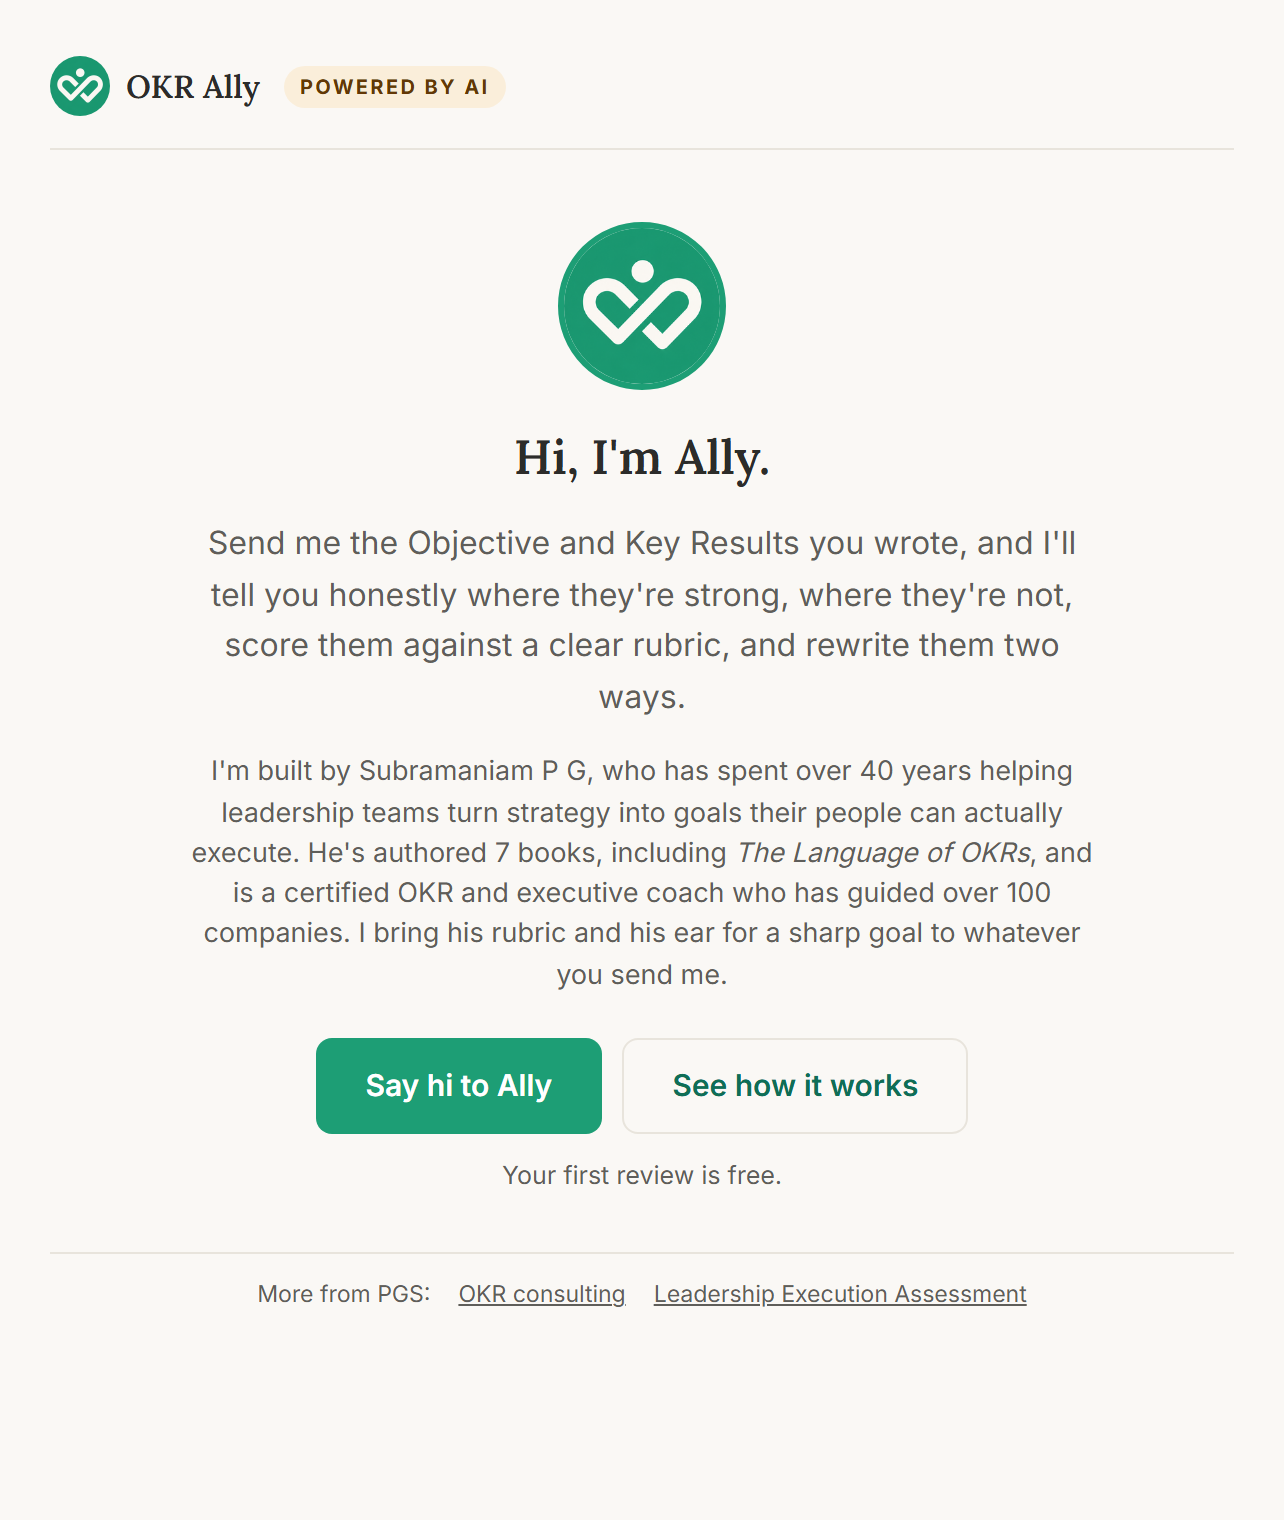
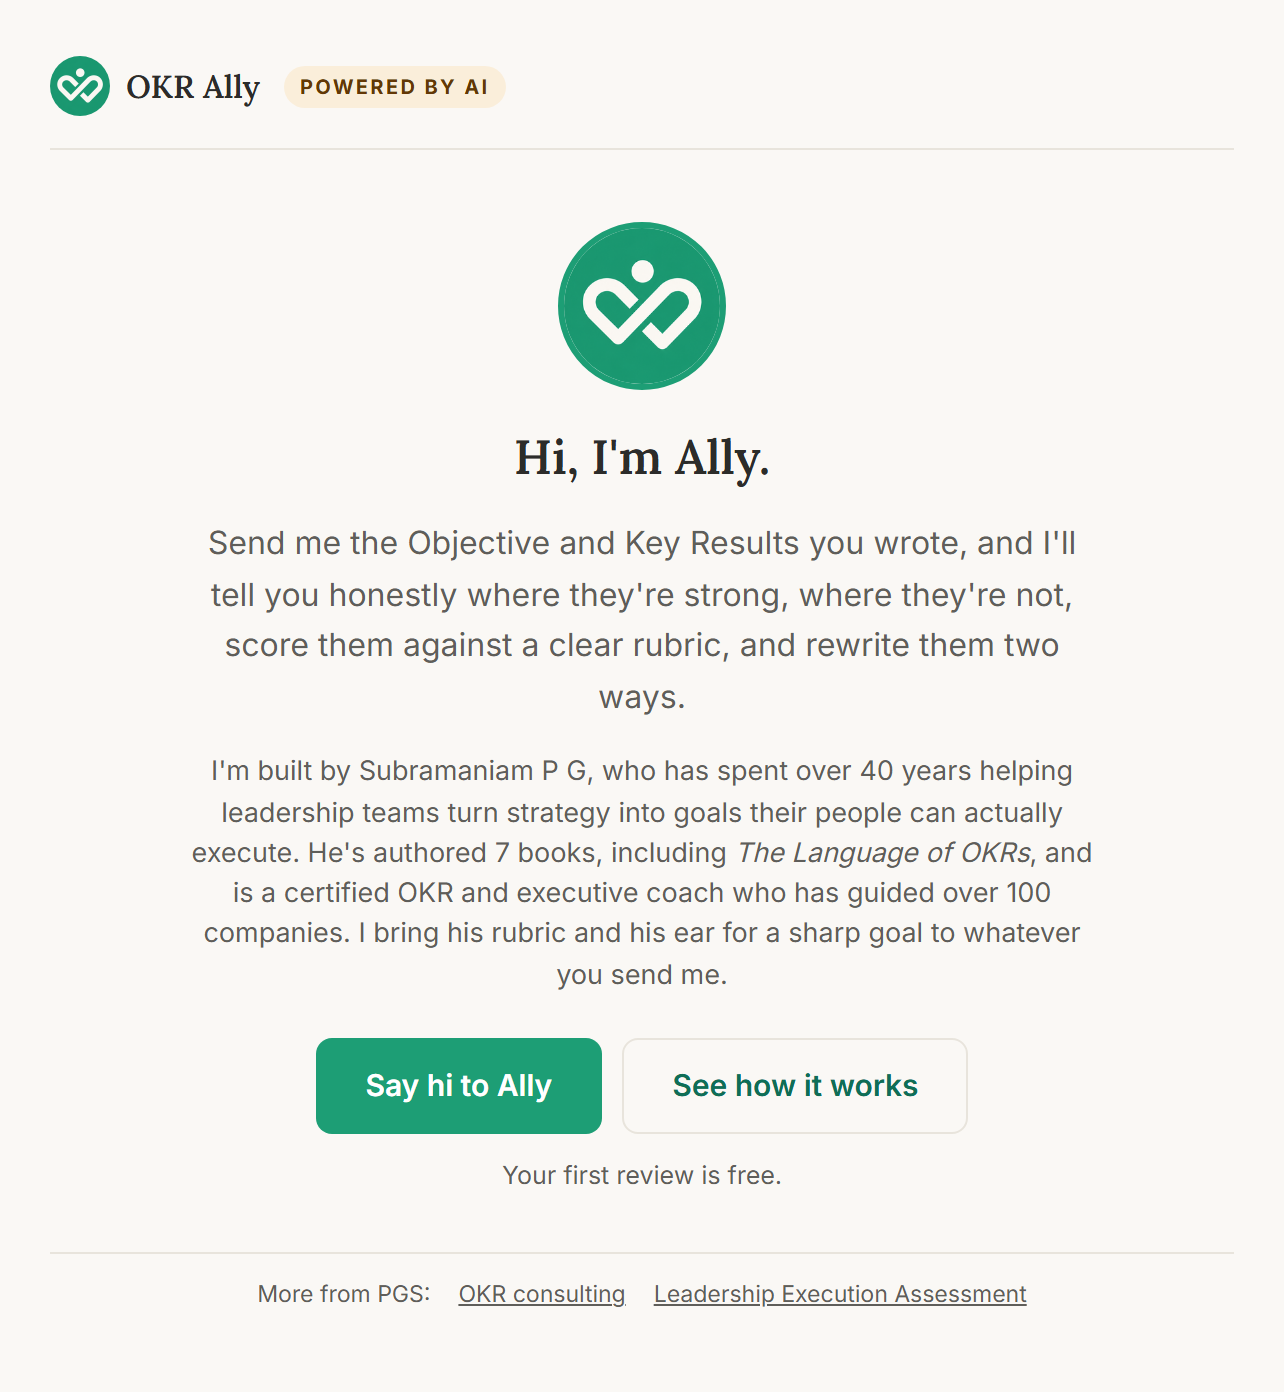
okr-ally: walkthrough follows the real conversation order; drop the comparisons
The "How it works" slideshow was 4 screenshots + 3 good-vs-bad comparison
slides + a CTA, in no particular order. Rebuild it as a straight walk of the
actual flow, screen by screen, captured against the live deployed product:

  intro → sign-in → company context → business context → role context
  (with a real clarifying follow-up) → Objective → Key Results → confirm → report

- Every slide is now a real screenshot. New captures: sign-in, all three
  context questions, Objective, Key Results, confirm. intro / report recaptured
  at the same viewport. Old 02-context / 03-clarify / 04-report removed.
- The three good-vs-bad comparison slides (weak/strong Objective, thin/full
  business answer, vague/specified KR) are removed entirely — `Compare` type,
  `CompareView`, `CompareCard` all gone. That teaching content may return later
  in Help or as contextual guidance on the report screen; it's just not in the
  walkthrough now.
- Objective / KR content is a single neutral worked example shown in the real
  input screens, not a paired contrast.
- Captions rewritten to match what each screenshot actually shows (e.g. the
  report caption no longer implies per-criterion rationale, which PR #9
  removed from the user-facing report).

e2e spec 15 updated: 10 slides, steps through all of them, asserts no
comparison headings remain and the report caption renders. Passes.
tsc / next lint / next build clean.

diff --git a/app/okr-ally/_walkthrough.tsx b/app/okr-ally/_walkthrough.tsx
@@ -6,12 +6,12 @@ import { T, Btn, AVATAR } from './_ui'
 
 /**
  * "How it works" — a slideshow the visitor can open from the intro screen,
- * before signing in. Real product screenshots (captured into
- * public/okr-ally/walkthrough/) walk the flow end to end; the last few slides
- * are before/after pairs that make the "write with more detail" point concrete.
+ * before signing in. Every slide is a real product screenshot (captured into
+ * public/okr-ally/walkthrough/ against the live deployed flow) and the slides
+ * follow the exact order a user experiences: intro → sign-in → the three
+ * context questions → Objective → Key Results → confirm → report.
  *
- * Entirely static — no API calls, no video, no external assets. Caption and
- * comparison copy is a first draft in Ally's voice, meant to be edited here.
+ * Entirely static — no API calls, no video, no external assets.
  */
 
 type Shot = {
@@ -22,90 +22,94 @@ type Shot = {
   alt: string
   caption: string
 }
-type Compare = {
-  kind: 'compare'
-  heading: string
-  /** optional context line shown above the two cards (e.g. the question being answered) */
-  inAnswerTo?: string
-  worse: { label: string; text: string }
-  better: { label: string; text: string }
-  caption: string
-}
 type Cta = { kind: 'cta'; heading: string; body: string }
-type Slide = Shot | Compare | Cta
+type Slide = Shot | Cta
 
 const SLIDES: Slide[] = [
   {
     kind: 'shot',
     img: '/okr-ally/walkthrough/01-intro.png',
     w: 1284,
-    h: 1520,
+    h: 1392,
     alt: 'The OKR Ally intro screen',
     caption:
       "This is the front door. Bring the Objective and Key Results you've already drafted — I don't write them from scratch. I score them against a fixed five-part rubric, tell you honestly what's working and what isn't, and hand back two rewrites. Your first review is free.",
   },
   {
     kind: 'shot',
-    img: '/okr-ally/walkthrough/02-context.png',
+    img: '/okr-ally/walkthrough/02-signin.png',
     w: 1284,
-    h: 958,
-    alt: 'Answering the company-context question, with a worked example typed in',
+    h: 604,
+    alt: 'The email sign-in step',
     caption:
-      'First I ask about your company, how the objective ladders up, and your own role. Detail is everything here — the more specific you are, the sharper my review. This is what a strong company answer looks like: what you do, who you serve, your size and stage, all in a few lines.',
+      "First, your email. I send a one-time sign-in link — no password to set or remember. It's how your reviews, credits and saved context stay tied to you between visits.",
   },
   {
     kind: 'shot',
-    img: '/okr-ally/walkthrough/03-clarify.png',
+    img: '/okr-ally/walkthrough/03-context-company.png',
     w: 1284,
-    h: 886,
-    alt: 'Ally asking a follow-up question when an answer is too thin',
+    h: 838,
+    alt: 'The first context question — about your company',
     caption:
-      "If an answer is too thin to work with, I ask one focused follow-up before we move on. You can always Skip — but answering it is usually what lifts a review from generic to genuinely useful.",
+      'Once you\'re in, a couple of quick basics — your name, your company — then three context questions. First: what your company does, who it serves, how big it is. The more detail here, the sharper the review, and I save it to your profile so you only write it once.',
   },
   {
     kind: 'shot',
-    img: '/okr-ally/walkthrough/04-report.png',
+    img: '/okr-ally/walkthrough/04-context-business.png',
     w: 1284,
-    h: 3280,
-    alt: 'The report screen: score ring, criteria radar, feedback, and two rewrites',
+    h: 842,
+    alt: 'The second context question — where the company is right now',
     caption:
-      "At the end you get an overall score, a breakdown across all five criteria, what works and what to tighten on the objective and every Key Result, and two full rewrites — one that repairs your draft, one built fresh from the outcome. It's on screen and in your inbox as a PDF.",
+      'Next, where the company is right now — its strategic direction, the challenges it\'s facing, the openings it sees, and the trends around it. Answer whichever of these matter to your objective. This is the context that lets me judge whether your OKR is aimed at what actually counts this quarter.',
   },
   {
-    kind: 'compare',
-    heading: 'A weak Objective vs a strong one',
-    worse: { label: 'Weaker', text: 'Improve the customer onboarding experience.' },
-    better: {
-      label: 'Stronger',
-      text: 'New customers reach first value on their own, without needing to contact support.',
-    },
+    kind: 'shot',
+    img: '/okr-ally/walkthrough/05-role-followup.png',
+    w: 1284,
+    h: 720,
+    alt: 'The third context question, with Ally asking a follow-up',
     caption:
-      'An Objective names the outcome you want — the state of the world once you’ve succeeded — not an activity or a direction of travel. "Improve" is a direction. The stronger version says what is actually different when the quarter goes well.',
+      "The last context question is your own role — what you're accountable for, and what you can and can't directly move. If any answer is too thin to work with, I ask one focused follow-up before we continue. You can always Skip, but answering is usually what lifts a review from generic to genuinely useful.",
   },
   {
-    kind: 'compare',
-    heading: 'A thin company answer vs a full one',
-    inAnswerTo:
-      '“Tell me about your company right now” — strategic direction, the current challenges in business and operations, the opportunities you see, and the trends affecting you.',
-    worse: { label: 'Thin', text: "We're a mid-size SaaS company and we're growing." },
-    better: {
-      label: 'Full',
-      text: "We're moving upmarket from SMB to mid-market this year. The blocker is that onboarding takes 12 weeks and first-year churn is 22%. A competitor just left the mid-market, so there's an opening — and new EU compliance rules are driving demand for our audit module.",
-    },
+    kind: 'shot',
+    img: '/okr-ally/walkthrough/06-objective.png',
+    w: 1284,
+    h: 574,
+    alt: 'Entering the Objective',
     caption:
-      'A full answer covers where the company is heading, what’s slowing it down, and what’s shifting around it. That context is what lets me judge whether your objective and Key Results are aimed at what actually matters right now.',
+      'Now the Objective — one sentence naming the outcome you want by the end of the cycle, not an activity or a direction of travel. Send me the one you already drafted.',
   },
   {
-    kind: 'compare',
-    heading: 'A vague Key Result vs a specified one',
-    worse: { label: 'Vague', text: 'Significantly increase customer satisfaction.' },
-    better: { label: 'Specified', text: 'Raise onboarding NPS from 32 to 45 by 31 March.' },
+    kind: 'shot',
+    img: '/okr-ally/walkthrough/07-key-results.png',
+    w: 1284,
+    h: 836,
+    alt: 'Entering the Key Results',
     caption:
-      'A Key Result needs a metric, a starting point, a target and a date. Without the baseline I can’t tell whether your target is ambitious or trivial — and nor can your team in week six.',
+      'Then one to six Key Results, each a measurable result in baseline-and-target form: a metric, where it starts, where you want it, and by when. You can add a few initiatives under any Key Result.',
+  },
+  {
+    kind: 'shot',
+    img: '/okr-ally/walkthrough/08-confirm.png',
+    w: 1284,
+    h: 2118,
+    alt: 'The confirm screen before submitting',
+    caption:
+      "One last look at everything I'm about to review — every line is still editable here. Then submit: one review, one credit, and it runs. A failed generation refunds automatically.",
+  },
+  {
+    kind: 'shot',
+    img: '/okr-ally/walkthrough/09-report.png',
+    w: 1284,
+    h: 5366,
+    alt: 'The report: score, criteria breakdown, feedback, and two rewrites',
+    caption:
+      "At the end you get an overall score, how it breaks down across the five criteria, what works and what to tighten on the Objective and every Key Result, and two full rewrites — one that repairs your draft, one built fresh from the outcome. It's on screen and in your inbox as a PDF.",
   },
   {
     kind: 'cta',
-    heading: "That's the whole loop.",
+    heading: "That's the whole conversation.",
     body: "Bring an Objective and its Key Results, plus a few minutes for the context questions. I'll take it from there.",
   },
 ]
@@ -158,7 +162,6 @@ export default function Walkthrough({ onBack, onStart }: { onBack: () => void; o
 
       <div style={{ minHeight: 420 }}>
         {slide.kind === 'shot' && <ShotView key={idx} slide={slide} />}
-        {slide.kind === 'compare' && <CompareView key={idx} slide={slide} />}
         {slide.kind === 'cta' && <CtaView key={idx} slide={slide} onStart={onStart} />}
       </div>
 
@@ -203,55 +206,6 @@ function ShotView({ slide }: { slide: Shot }) {
         />
       </Frame>
       <CaptionBubble>{slide.caption}</CaptionBubble>
-    </div>
-  )
-}
-
-function CompareView({ slide }: { slide: Compare }) {
-  return (
-    <div style={{ animation: 'okraIn .3s ease both' }}>
-      <h2 style={{ fontFamily: 'var(--font-lora), serif', fontSize: 17, fontWeight: 600, color: T.charcoal, margin: '0 0 6px' }}>
-        {slide.heading}
-      </h2>
-      {slide.inAnswerTo && (
-        <p style={{ fontSize: 12.5, color: T.muted, fontStyle: 'italic', margin: '0 0 12px', lineHeight: 1.5 }}>
-          In answer to: {slide.inAnswerTo}
-        </p>
-      )}
-      <div className="flex" style={{ gap: 12, flexWrap: 'wrap', marginTop: slide.inAnswerTo ? 0 : 6 }}>
-        <CompareCard tone="worse" label={slide.worse.label} text={slide.worse.text} />
-        <CompareCard tone="better" label={slide.better.label} text={slide.better.text} />
-      </div>
-      <CaptionBubble>{slide.caption}</CaptionBubble>
-    </div>
-  )
-}
-
-function CompareCard({ tone, label, text }: { tone: 'worse' | 'better'; label: string; text: string }) {
-  const better = tone === 'better'
-  return (
-    <div
-      style={{
-        flex: '1 1 220px',
-        border: `1px solid ${better ? T.emeraldBorder : '#F0D9D9'}`,
-        background: better ? T.emeraldTint : '#FBF1F1',
-        borderRadius: 12,
-        padding: 14,
-      }}
-    >
-      <div
-        style={{
-          fontSize: 10.5,
-          fontWeight: 700,
-          letterSpacing: '.08em',
-          textTransform: 'uppercase',
-          color: better ? T.emeraldDark : '#A23B3B',
-          marginBottom: 6,
-        }}
-      >
-        {label}
-      </div>
-      <div style={{ fontSize: 13.5, lineHeight: 1.5, color: T.charcoal }}>{text}</div>
     </div>
   )
 }

diff --git a/e2e/okr-ally.spec.ts b/e2e/okr-ally.spec.ts
@@ -811,25 +811,27 @@ test('walkthrough: intro → step every slide → CTA lands on the email gate', 
 
   await page.getByRole('button', { name: /See how it works/i }).click()
   await expect(page.getByRole('heading', { name: 'How OKR Ally works' })).toBeVisible()
-  await expect(page.getByText('1 / 8')).toBeVisible()
+  await expect(page.getByText('1 / 10')).toBeVisible()
   await expect(page.getByText(/This is the front door/i)).toBeVisible()
 
   // ← Back returns to the intro
   await page.getByRole('button', { name: '← Back' }).click()
   await expect(page.getByRole('button', { name: /Say hi to Ally/i })).toBeVisible()
 
-  // re-open and step through every slide with Next
+  // re-open and step through every slide with Next — the slides follow the real
+  // conversation order (intro → sign-in → context → objective → KRs → confirm → report)
   await page.getByRole('button', { name: /See how it works/i }).click()
-  for (let i = 1; i < 8; i++) {
-    await expect(page.getByText(`${i} / 8`)).toBeVisible()
+  for (let i = 1; i < 10; i++) {
+    await expect(page.getByText(`${i} / 10`)).toBeVisible()
     await page.getByRole('button', { name: 'Next', exact: true }).click()
   }
-  await expect(page.getByText('8 / 8')).toBeVisible()
+  await expect(page.getByText('10 / 10')).toBeVisible()
 
-  // a before/after comparison was shown on the way (slide 7)
-  await page.getByRole('button', { name: 'Back', exact: true }).click()
-  await expect(page.getByRole('heading', { name: /A vague Key Result vs a specified one/i })).toBeVisible()
-  await expect(page.getByText(/Raise onboarding NPS from 32 to 45 by 31 March/)).toBeVisible()
+  // no good-vs-bad comparison slides any more — every slide before the CTA is a
+  // real product screenshot
+  await page.getByRole('button', { name: 'Back', exact: true }).click() // slide 9 — the report
+  await expect(page.getByText(/an overall score, how it breaks down across the five criteria/i)).toBeVisible()
+  await expect(page.getByRole('heading', { name: /vs a strong one|vs a full one|vs a specified one/i })).toHaveCount(0)
   await page.getByRole('button', { name: 'Next', exact: true }).click()
 
   // final slide CTA → email gate
